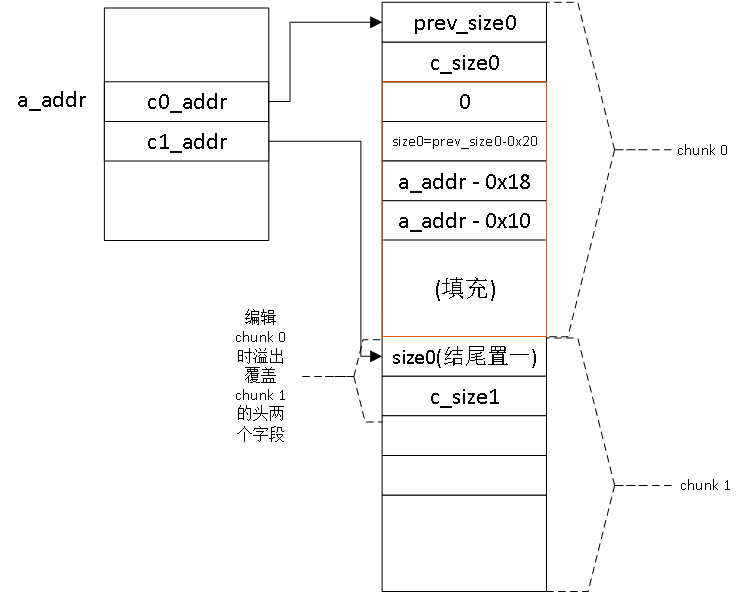
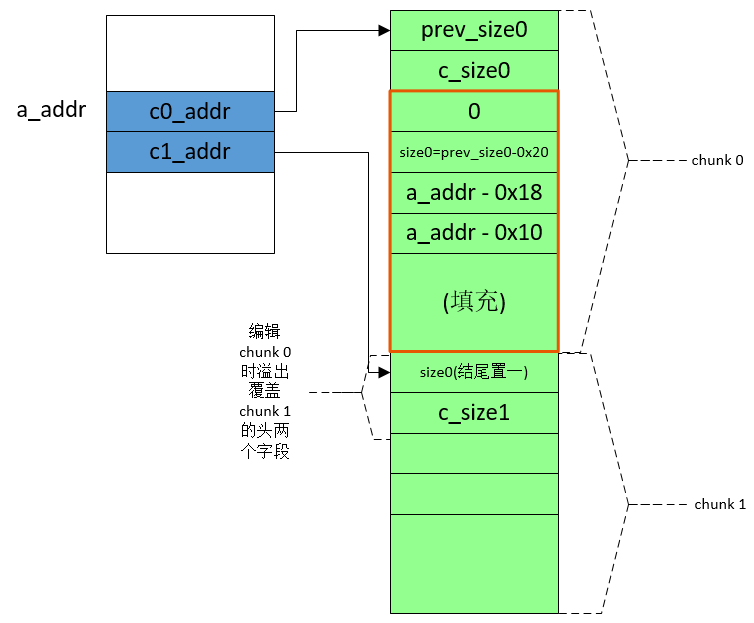
house of mind fastbin

diff --git a/house/笔记.md b/house/笔记.md
@@ -1,25 +1,29 @@
+**前言**
+
+    绿框代表使用中的内存空间, 白框代表空闲的内存空间, 蓝框为堆外的空间.
+
 # house of spirit
 `在栈上伪造堆块, 并对之进行free`, 让它进fastbin链, 之后malloc会得到栈上的区域.
 
-注意的点:
+**注意的点:**
 
 1. 假块的size字段的值要`大于16小于128`, 以确保能进fastbin.
 2. 假块的size字段的后面3个标志位: PREV_INUSE位因为不影响fastbin所以可以不理, 但IS_MMAPPED和NON_MAIN_ARENA要置零. 另外malloc得到的块的大小是要约的(如在x64, 0x30-0x38都要约成0x40).
 3. 要让假块的下一堆块通过大小的完整性检查(nextsize integrity checks). 因此下一堆块的size字段要大于2*SIZE_SZ, 小于av->system_mem(main arena中默认为128kb)
 
-<img alt="house_of_spirit" src="./pic/house_of_spirit.jpg" width="70%" height="70%">
+    <img alt="house_of_spirit" src="./pic/house_of_spirit.jpg" width="70%" height="70%">
 
 # house of lore
 `修改smallbins链上的块的bk指针, 将其指向栈上区域`, 使得之后连续第二次malloc时取得栈上区域.
 
 注: 在how2heap的glibc 2.27中有house of lore示例, 但会报*Segmentation fault*的错. 
 
-条件
+**条件**
 * glibc 2.23
 * 存在UAF
 * 能暴露栈上地址.
 
-利用过程
+**利用过程**
 1. 申请一个小块victim; 再申请一个块, 以防victim被合并到top块.
 2. 在栈上构造两个假块是s1和s2. s1的fd指向victim, bk指向s2; s2的fd指向s1. `构建s2是为了绕过malloc得到s1时smallbins的检查`.
 3. 这时victim在unsorted bins上. 申请一个大块, `引起malloc_consolidate, victim转移到smallbins上`.
@@ -33,11 +37,11 @@
 # house of force
 覆盖top块, 使得malloc时返回随机值.
 
-条件
+**条件**
 * glibc 2.27以下
 * 有溢出
 
-利用过程
+**利用过程**
 1. 分配一个区块victim, 因此也会产生top块.
 2. 溢出victim覆盖top块的size字段, 将其值改为-1, 即无符号的最大值.
 3. 假设覆盖的目标为变量var1. `需要分配一个区块c1, 以覆盖var1以前的位置, 进而在下一次malloc分配的区块中会包含var1, 从而可改写var1.` 如下图右三, c1的大小应为var1地址减去分配victim后的top块地址, 再减去`4个头部字段的大小`.
@@ -51,10 +55,10 @@
 # house of einherjar
 修改空闲块victim的prev_size大小, 让该值大到可以追溯到目标改写位置. 在后向合并时, 目标改写位置被合并到top块来, 下一次malloc时可获得该位置.
 
-条件
+**条件**
 * 有溢出
 
-利用过程
+**利用过程**
 1. malloc得到两个块a和b.
 2. 在目标地址往前的位置构造假块fake_c, 其中的fd和bk字段值为fake_c的地址(以绕过unlink检查), size字段为`fake_c - b`.
 3. 溢出a, 将b的prev_size值改为fake_c - b, 并将size字段中的prev_inuse位置零.
@@ -66,10 +70,10 @@
 # house of botcake
 tcache中毒, 有点像fastbin_dup. 通过double free将一个已经存在于unsortedbins链的块插入到tcache中, 并修改该块的fd指针, 指向任意可写地址, 之后连续第二次malloc获得该地址.
 
-条件
+**条件**
 * 可double free
 
-利用过程
+**利用过程**
 1. 申请7个小块(malloc(0x100))(用于后续填满tcache), 申请一个用于free时合并的成大块的prev块, 申请一个victim块, 再申请一个小块pad以防释放victim时被合并到top块.
 2. 释放7个小块以填满tcache; 释放vicitm和prev, 它们会被合并(记为b)后放到unsortedbins中.
 3. malloc从tcache取出一块, 再free(victim), 将该块插入tcache.
@@ -79,3 +83,41 @@ tcache中毒, 有点像fastbin_dup. 通过double free将一个已经存在于uns
     <img alt="house_of_botcake" src="./pic/house_of_botcake.jpg" width="100%" height="100%">
 
 # house of mind fastbin
+参考: [https://maxwelldulin.com/BlogPost?post=2257705984](https://maxwelldulin.com/BlogPost?post=2257705984)
+
+在目标改写位置附近伪造arena. 通过将某个fastbin大小的块的N位置1并将其free, 使目标位置的值变为该块的地址.
+
+**条件**
+* 已泄漏堆地址(用于计算即将使用的假heap_info的位置)
+* malloc的次数不限
+* 堆块可溢出(为了修改块的size字段的N标志位)
+
+**注意的点**
+1. size的完整性检查
+    ```c
+    if next_chunk_size <= 0x10 or 
+    next_chunk_size >= arena->system_mem
+    ```
+2. malloc有最大值限制
+    ```c
+	int MAX_SIZE = (128*1024) - 0x100; // MMap threshold: https://elixir.bootlin.com/glibc/glibc-2.23/source/malloc/malloc.c#L635
+    ```
+
+**利用过程**
+1. 记目标修改位置为target_loc, 在target_loc之前一点的地方(如, 0x30, 则将利用malloc_state的fastbinsY[0x4]位置)构建假的malloc_state(记为fake_arena). 为了绕过对size的完整性检查. 需设置fake_arena[0x888]处(`system_mem字段`)的值, 尽量大(如0xffffff).
+
+    <img alt="heap_info" src="./pic/malloc_state.jpg" width="50%" height="50%">
+2. 根据heap的对齐方式, 利用一块新的heap_info(记为fake_heap_info). 计算该heap_info位置的方法如下. 因heap_info的首个字段`ar_ptr`记录对应的arena的位置, 所以需要修改fake_heap_info的前8个字节为fake_arena的地址.
+    ```c
+    heap_info = (target_loc + HEAP_MAX_SIZE) & ~(HEAP_MAX_SIZE - 1)
+    ```
+    <img alt="heap_info" src="./pic/heap_info.png" width="30%" height="30%">
+3. 为了获得对fake_heap_info位置的读写权, 可通过不断的malloc以达到该位置.
+4. 先通过malloc和free把tcache填满. 分配一块fastbin大小的块fastbin_chunk(如malloc(0x50)), 并通过堆溢出`修改该块的size字段的N标志位为1`(表示该块属于non-main arena).
+5. free(fastbin_chunk), 之后target_loc处的值将被改写为fastbin_chunk的地址
+
+    <img alt="heap_info" src="./pic/house_of_mind_fastbin.jpg" width="70%" height="70%">
+
+**一些利用场景**
+1. 覆盖一些指定了"最大值"的字段, 使其值尽量大, 从而后续可进行更多越界的读写操作.
+2. 如, 已有对某个长为0x200的字符串s的修改权限. 通过本方法覆盖变量s, 使其指向某个空闲的freebin块, 进而导致大的溢出.

diff --git a/堆知识笔记.md b/堆知识笔记.md
@@ -1,7 +1,43 @@
-堆溢出基础: <br>
+**堆溢出基础**: 
 * https://kabeor.cn/堆溢出-Glibc堆结构
 * https://azeria-labs.com/heap-exploitation-part-2-glibc-heap-free-bins/
 * https://heap-exploitation.dhavalkapil.com/
+
+# 堆中的元数据
+**heap_info**: 
+```c
+struct _heap_info
+{
+  mstate ar_ptr;           // Arena for this heap. <--- Malloc State pointer
+  struct _heap_info *prev; // Previous heap.
+  size_t size;            // Current size in bytes.
+  size_t mprotect_size;   // Size in bytes that has been mprotected
+  char pad[-6 * SIZE_SZ & MALLOC_ALIGN_MASK]; // Proper alignment
+} heap_info; 
+```
+
+**arena**
+
+指每个线程独自拥有的一块内存区域. `main arena`则代表程序的初始堆. 每个arena有一个`mutex`来控制访问权限. 操作arena前线程需要获得锁(某些操作如`访问fastbins`除外).
+
+每个chunk的size字段的倒数第三位(N)如果被设置为1, 则表示该块属于非主arena, 否则就是在主arena.
+
+非主arena的堆的底部是heap_info, 其中的第一个字段`ar_ptr`指向arena.
+
+<img alt="get_non_main_arena_from_chunk" src="./pic/get_non_main_arena_from_chunk.png" width="30%" height="30%">
+
+**常量**
+|Parameter|32 bit|i386|64 bit|
+|--|--|--|--|--|
+|MALLOC_ALIGNMENT | 8 | 16 | 16
+|MIN_CHUNK_SIZE | 16 | 16 | 32
+|MAX_FAST_SIZE | 80 | 80 | 160
+|MAX_TCACHE_SIZE | 516 | 1,020 | 1,032
+|MIN_LARGE_SIZE | 512 | 1,008 | 1,024
+|DEFAULT_MMAP_THRESHOLD | 131,072 | 131,072 | 131,072
+|DEFAULT_MMAP_THRESHOLD_MAX | 524,288 | 524,288 | 33,554,432
+|HEAP_MIN_SIZE | 32,768 | 32,768 | 32,768
+|HEAP_MAX_SIZE | 1,048,576 | 1,048,576 | 67,108,864(0x4000000)
 
 # libc堆管理中的'向前'和'向后'
 libc的块(chunk)头部中, 有两个字段fd和bk, 意思分别是**向前forward和向后backward**.

diff --git a/README.md b/README.md
@@ -1,4 +1,4 @@
-# 各堆漏洞原理概述
+# 各种堆漏洞原理概述
 1. 利用堆合并时的赋值操作(BK->fd = FD)改变特定地址(如, 保存堆块地址的地址).
     * [unsafe unlink 图解](./unsafe_unlink/笔记.md)
     * [double free 图解](./double_free/笔记.md)
@@ -12,4 +12,6 @@
 3. 篡改top块, 使得malloc返回任意可写地址.
     * [house of force 图解](./house/笔记.md#house-of-einherjar): 篡改top块的大小
     * [house of einherjar 图解](./house/笔记.md#house-of-botcake): 通过free时的合并操作引起top块的起始位置的改变.
+4. 利用free时对arena的元数据malloc_state中的fastbinY数组等的修改操作, 将目标位置的值改为free的块的地址.
+    * [house of mind fastbin 图解](./house/笔记.md#house-of-mind-fastbin)
 
